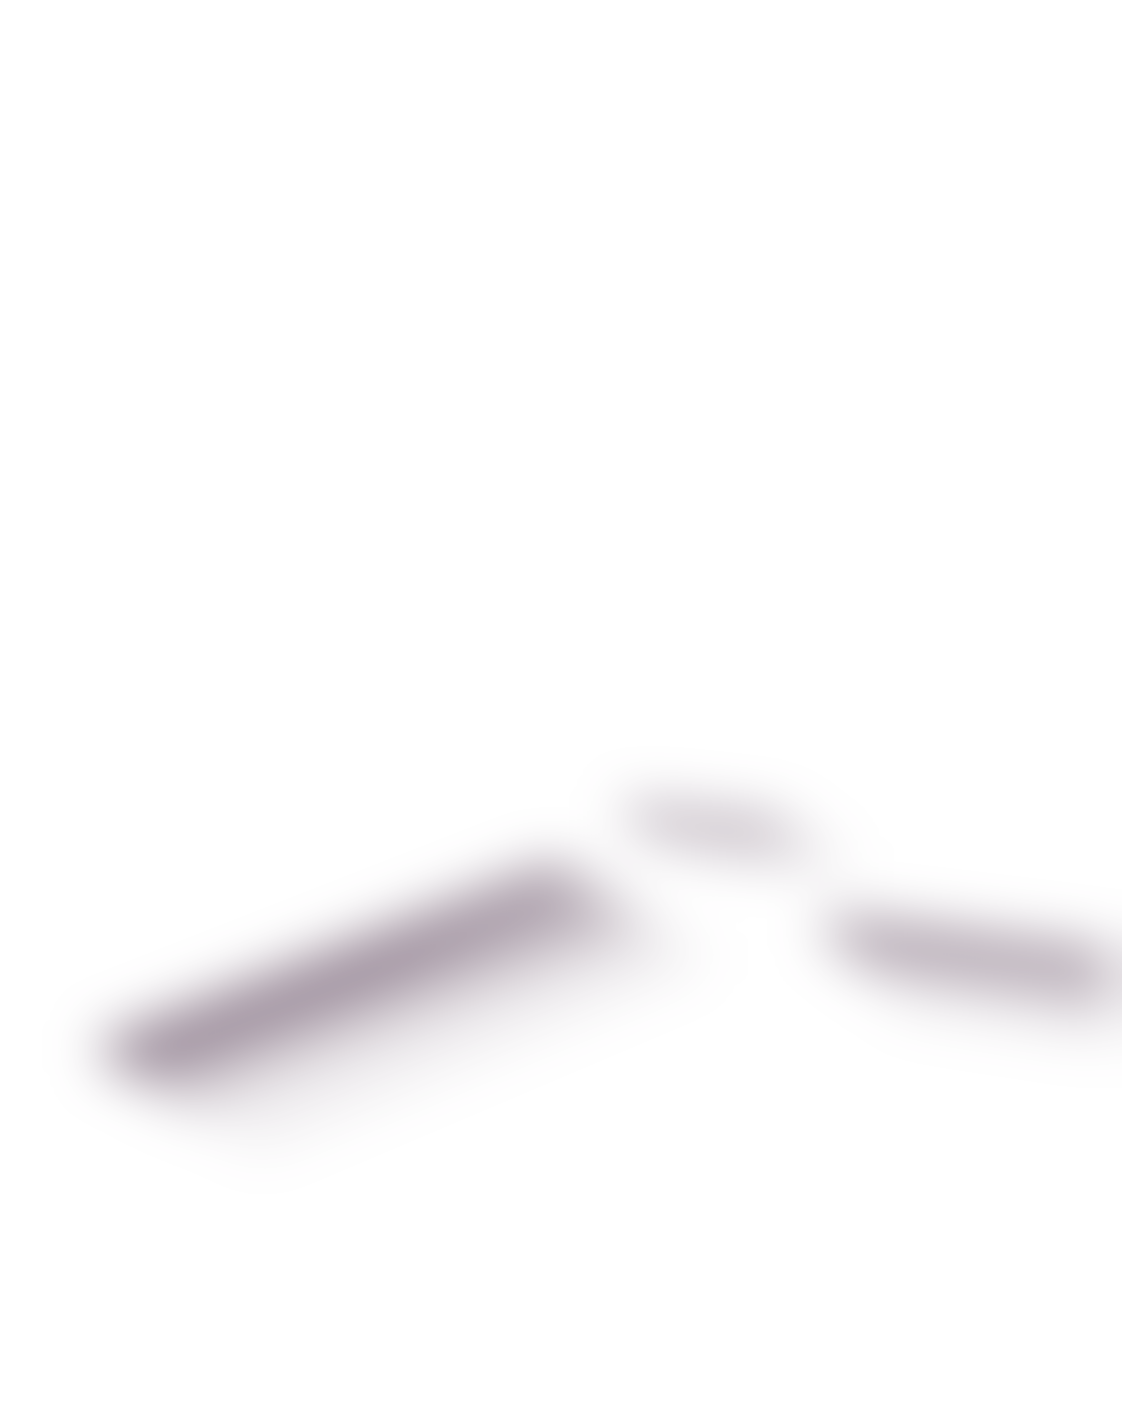
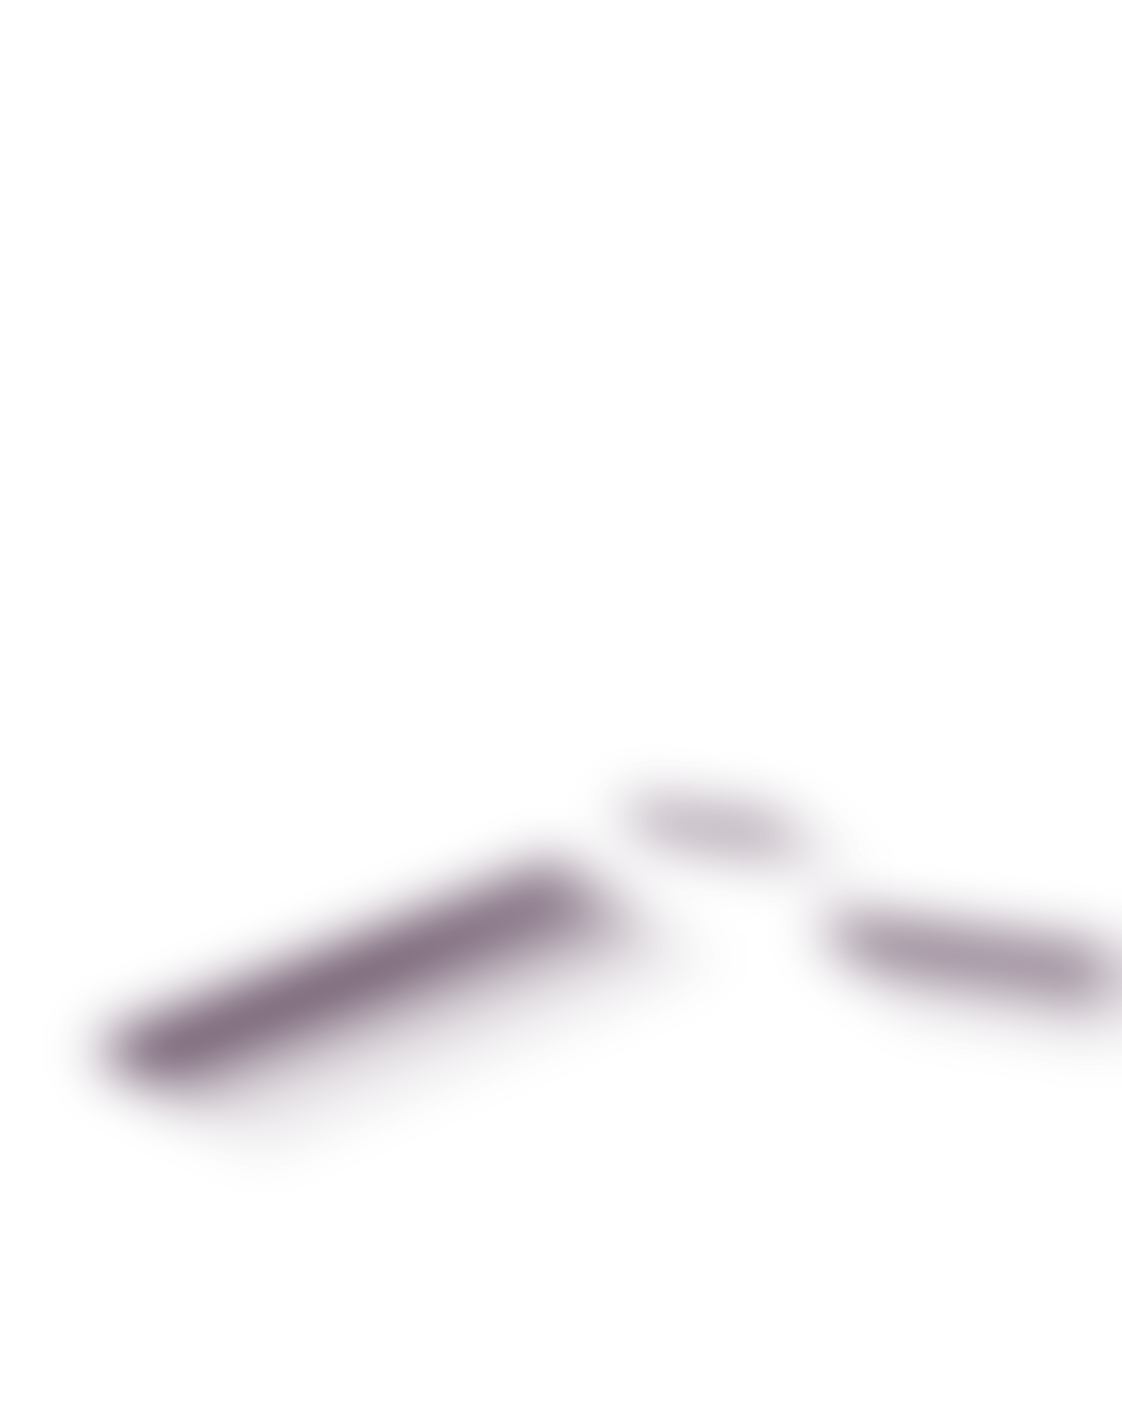
fix(scene): 首頁光照實機不可見＋檯燈光球——雙 pass 光束與投光式燈暈
實機回報（dev debug/prod 皆同）：四時段光照效果幾乎全部看不見、
黃昏檯燈是一顆違和的白色光球。本機 Skia 渲染 harness 重現＝與實機
一致，排除 Impeller/裝置差異，根因是前兩輪「過曝收斂」把強度壓到
肉眼閾值以下＋奶油色光束 srcOver 疊奶油房間色距趨近 0。

- 光束/月光改雙 pass：srcOver 飽和金「暖色染」（上限=光束色，
  永不過曝）＋低 alpha plus「提亮」（正午有效值 ≤7%）；
  正午近全白像素 0.2%（災難版 45%）
- homeSunShaftStrength 重寫：晨 6~9 最強 0.85、正午轉柔 0.55、
  14 起收光；光束漸層加中段 stop、長度收到 0.85w 落在床上
- 檯燈（首頁）改「投光」模式：燈罩差分已表達燈亮，painter 只畫
  燈罩周圍暖色染（srcOver、中心對準燈罩中心而非燈頸）＋櫃面
  小光池；其他房間無差分圖，維持原 additive 光暈
- 黃昏斜光 0.42→0.62、月光雙 pass 加強；長影差分 alpha ×1.5
- 渲染驗證：flutter test 全套 263 通過、analyze/check_units 乾淨

待實機核准四時段觀感。

Changed region(s): [[0.0936, 0.6134, 0.5303, 0.7974], [0.7487, 0.6441, 0.967, 0.7054]]

diff --git a/lib/pages/home/room_ambient_overlay.dart b/lib/pages/home/room_ambient_overlay.dart
@@ -92,6 +92,22 @@ double homeLampIntensity(double h) =>
 double homeDuskIntensity(double h) =>
     _smooth(16.0, 16.8, h) * (1 - _smooth(18.3, 19.2, h));
 
+/// 首頁日光光束的可視強度。早晨（6~9）低角度金光最強、正午轉柔但仍
+/// 清楚可見、14 起收光。實機驗證教訓（2026-07-12）：先前用 smooth(6,12)
+/// 一路壓，07:30 只剩 2% alpha、13:00 也不到 10%，整個白天等於沒有光照；
+/// srcOver 光束的亮度上限就是光束色本身，不會過曝，強度可以放心給足。
+double homeSunShaftStrength(double h) {
+  if (h < 6 || h >= 16) return 0;
+  final rise = _smooth(6.0, 7.0, h); // 日出後快速就位
+  final soften = 1 - 0.35 * _smooth(8.5, 12.0, h); // 正午轉柔（能量補償）
+  final set = 1 - _smooth(14.0, 16.0, h); // 午後收光
+  return 0.85 * rise * soften * set;
+}
+
+/// 首頁夜間月光強度。刻意比其他房間明確，因首頁亮色牆面會吃掉過淡冷光。
+double homeMoonShaftStrength(double h) =>
+    (h >= 12 ? _smooth(21.0, 22.8, h) : (1 - _smooth(4.0, 5.5, h))) * 0.65;
+
 /// 首頁靜態差分 overlay（燈罩發亮 / 黃昏長影）。
 ///
 /// 與背景圖同一套 cover-by-width + topCenter 版位鋪滿，直接疊在底圖上；
@@ -631,24 +647,12 @@ class _RoomAmbientPainter extends CustomPainter {
     late final double lamp;
     late final double moon;
     if (companionTiming) {
-      final sun = _companionSun(h);
+      final sunShaft = homeSunShaftStrength(h);
       final noon = _smooth(6.0, 12.0, h);
       // 黃昏斜光：與長影差分/光池共用同一條首頁黃昏曲線
       final dusk = homeDuskIntensity(h);
-      if (sun > 0.01) {
-        // (1 - 0.70*noon)＝能量補償：正午光束加寬 9 倍（spreadScale 8）
-        // 又三道 additive 疊加，不補償會把窗簾/牆面 45% 沖到全白
-        //（實測過曝率 45.3%→補償後應 <5%）。與其他頁 shaftStrength 的
-        // (1 - 0.875*dayness) 同一個道理。
-        _paintSunShafts(
-          canvas,
-          w,
-          imgH,
-          t,
-          0.68 * sun * (1 - 0.70 * noon),
-          noon,
-          spreadScale: 8.0,
-        );
+      if (sunShaft > 0.01) {
+        _paintSunShafts(canvas, w, imgH, t, sunShaft, noon, spreadScale: 1.6);
       }
       if (dusk > 0.01) {
         _paintSunShafts(
@@ -656,17 +660,15 @@ class _RoomAmbientPainter extends CustomPainter {
           w,
           imgH,
           t,
-          0.26 * dusk,
+          0.62 * dusk,
           0.22,
           colorOverride: const Color(0xFFFFB36F),
-          spreadScale: 3.2,
+          spreadScale: 1.6,
         );
       }
       // 檯燈與黃昏同步暖起來（16:48 起漸亮）；與燈罩差分共用曲線
       lamp = homeLampIntensity(h);
-      moon =
-          (h >= 12 ? _smooth(21.0, 22.8, h) : (1 - _smooth(4.0, 5.5, h))) *
-          0.45;
+      moon = homeMoonShaftStrength(h);
     } else {
       // ── 時段強度曲線（連續、平滑）──
       // 窗光：5:30 亮起、晨間最強、白天轉柔、16~19 收掉
@@ -689,12 +691,6 @@ class _RoomAmbientPainter extends CustomPainter {
     }
   }
 
-  double _companionSun(double h) {
-    if (h < 6 || h >= 16) return 0;
-    if (h <= 12) return _smooth(6.0, 12.0, h);
-    return 1 - _smooth(12.0, 16.0, h);
-  }
-
   // ── 窗光光束 + 地板光池 + 塵埃 ──────────────────────────────
   void _paintSunShafts(
     Canvas canvas,
@@ -706,7 +702,15 @@ class _RoomAmbientPainter extends CustomPainter {
     Color? colorOverride,
     double spreadScale = 11.0,
   }) {
-    final color =
+    // 染色 pass 用較飽和的金（srcOver 靠色差表現）；提亮 pass 用淺暖色。
+    final tintColor =
+        colorOverride ??
+        Color.lerp(
+          const Color(0xFFFFB966), // 晨金（飽和）
+          const Color(0xFFFFE7B8), // 晝奶油（飽和）
+          dayness,
+        )!;
+    final liftColor =
         colorOverride ??
         Color.lerp(
           const Color(0xFFFFC388), // 晨金
@@ -715,20 +719,29 @@ class _RoomAmbientPainter extends CustomPainter {
         )!;
     final dir = Offset(1, 0.9) / Offset(1, 0.9).distance;
     final perp = Offset(-dir.dy, dir.dx);
-    final len = w * 0.95;
-    // 白天太陽高 → 光束大幅加寬成一片柔光（晨光 dayness≈0 仍窄而戲劇）。
-    // 調這個係數改白天「範圍」：越大越寬。
+    // 光束落在床鋪就收掉（0.85w）：拉太長會掃過整個房間變成霧。
+    final len = w * 0.85;
+    // 白天太陽高 → 光束稍微加寬，但仍保留三道可辨識的輪廓。
     final spread = 1.0 + spreadScale * dayness;
 
-    // 三道光束沿窗格錯開，亮度微微呼吸（極慢，幾乎察覺不到才高級）
+    // 三道光束沿窗格錯開，亮度微微呼吸（極慢，幾乎察覺不到才高級）。
+    // blend 模式演進（實機兩輪回報的結論，改前先讀）：
+    //   純 plus → 正午在白牆/窗簾大面積 clip 到全白（45% 過曝）；
+    //   純 srcOver → 奶油光疊奶油房間色距趨近 0，整條光束隱形；
+    //   純 screen → 暖色調房間上去飽和變蒼白霧，沒有「金色光」感。
+    // 定案＝雙 pass：srcOver 飽和金負責「暖色染」（上限就是光束色，
+    // 永不過曝），低 alpha plus 負責「提亮」（正午有效值 ≤7% 不會洗白）。
     final beams = <({Offset start, double halfW, double alpha})>[
-      (start: Offset(w * 0.07, imgH * 0.09), halfW: w * 0.030, alpha: 0.18),
-      (start: Offset(w * 0.12, imgH * 0.16), halfW: w * 0.042, alpha: 0.22),
-      (start: Offset(w * 0.17, imgH * 0.24), halfW: w * 0.034, alpha: 0.16),
+      (start: Offset(w * 0.07, imgH * 0.09), halfW: w * 0.027, alpha: 0.30),
+      (start: Offset(w * 0.12, imgH * 0.16), halfW: w * 0.036, alpha: 0.34),
+      (start: Offset(w * 0.17, imgH * 0.24), halfW: w * 0.030, alpha: 0.27),
     ];
     final breath = 0.9 + 0.1 * math.sin(t * 0.35);
-    final blur = Paint()
-      ..maskFilter = const ui.MaskFilter.blur(ui.BlurStyle.normal, 9)
+    final tintPaint = Paint()
+      ..maskFilter = const ui.MaskFilter.blur(ui.BlurStyle.normal, 7)
+      ..blendMode = BlendMode.srcOver;
+    final liftPaint = Paint()
+      ..maskFilter = const ui.MaskFilter.blur(ui.BlurStyle.normal, 7)
       ..blendMode = BlendMode.plus;
 
     for (final b in beams) {
@@ -741,11 +754,22 @@ class _RoomAmbientPainter extends CustomPainter {
         ..lineTo(end.dx - perp.dx * hw * 1.6, end.dy - perp.dy * hw * 1.6)
         ..lineTo(end.dx + perp.dx * hw * 1.6, end.dy + perp.dy * hw * 1.6)
         ..close();
-      blur.shader = ui.Gradient.linear(b.start, end, [
-        color.withValues(alpha: b.alpha * strength * breath),
-        color.withValues(alpha: 0),
-      ]);
-      canvas.drawPath(path, blur);
+      // 中段留 55% 濃度：只給頭尾兩個 stop 時，光束離窗一小段就衰減到
+      // 肉眼閾值以下，等於整條看不見（實機回報的主因之一）。
+      final a0 = b.alpha * strength * breath;
+      const stops = [0.0, 0.5, 1.0];
+      tintPaint.shader = ui.Gradient.linear(b.start, end, [
+        tintColor.withValues(alpha: a0),
+        tintColor.withValues(alpha: a0 * 0.55),
+        tintColor.withValues(alpha: 0),
+      ], stops);
+      liftPaint.shader = ui.Gradient.linear(b.start, end, [
+        liftColor.withValues(alpha: a0 * 0.42),
+        liftColor.withValues(alpha: a0 * 0.42 * 0.55),
+        liftColor.withValues(alpha: 0),
+      ], stops);
+      canvas.drawPath(path, tintPaint);
+      canvas.drawPath(path, liftPaint);
     }
 
     // 塵埃微粒：沿中央光束緩慢漂移 + 各自閃爍
@@ -763,7 +787,7 @@ class _RoomAmbientPainter extends CustomPainter {
       final twinkle = 0.5 + 0.5 * math.sin(t * (0.6 + m.p1 * 0.2) + m.p2);
       // 沿光束尾端淡出，跟光束的衰減一致
       final fade = (1 - s) * strength * twinkle;
-      motePaint.color = color.withValues(alpha: 0.38 * fade);
+      motePaint.color = liftColor.withValues(alpha: 0.45 * fade);
       canvas.drawCircle(pos, m.r, motePaint);
     }
   }
@@ -782,22 +806,46 @@ class _RoomAmbientPainter extends CustomPainter {
       ..lineTo(end.dx - perp.dx * halfW * 1.5, end.dy - perp.dy * halfW * 1.5)
       ..lineTo(end.dx + perp.dx * halfW * 1.5, end.dy + perp.dy * halfW * 1.5)
       ..close();
+    // 雙 pass 同光束：srcOver 冷色染（暖房間上靠色差可見）＋小 plus 提亮。
+    canvas.drawPath(
+      path,
+      Paint()
+        ..maskFilter = const ui.MaskFilter.blur(ui.BlurStyle.normal, 11)
+        ..shader = ui.Gradient.linear(
+          start,
+          end,
+          [
+            const Color(0xFFAAB6E8).withValues(alpha: 0.32 * moon),
+            const Color(0xFFAAB6E8).withValues(alpha: 0.18 * moon),
+            const Color(0x00AAB6E8),
+          ],
+          [0.0, 0.5, 1.0],
+        ),
+    );
     canvas.drawPath(
       path,
       Paint()
         ..maskFilter = const ui.MaskFilter.blur(ui.BlurStyle.normal, 11)
         ..blendMode = BlendMode.plus
-        ..shader = ui.Gradient.linear(start, end, [
-          color.withValues(alpha: 0.07 * moon),
-          color.withValues(alpha: 0),
-        ]),
+        ..shader = ui.Gradient.linear(
+          start,
+          end,
+          [
+            color.withValues(alpha: 0.10 * moon),
+            color.withValues(alpha: 0.06 * moon),
+            color.withValues(alpha: 0),
+          ],
+          [0.0, 0.5, 1.0],
+        ),
     );
   }
 
   // ── 床頭檯燈暖光暈（呼吸）────────────────────────────────────
-  // 外暈刻意收斂：半徑 0.30w 時光球會吞掉櫃面以下的家具正面＋地板
-  //（「檯燈光照下方太多」），且 additive 疊加在實機 P3/OLED 比模擬器
-  // 截圖更亮。改小半徑＋中心略上移（光偏向燈罩），讓光暈貼著燈本體。
+  // 首頁（companionTiming）有「燈罩發亮」差分圖，燈本體已經亮了；painter
+  // 只負責「投出去的光」：燈罩周圍的暖色染（srcOver，不會疊白過曝）＋
+  // 櫃面上的小光池。實機回報教訓：additive 光暈中心又落在燈頸（0.41 是
+  // 燈罩「底緣」），疊在全亮燈罩差分上就是一顆吞掉底座的白色光球。
+  // 其他房間沒有差分圖，維持原本 additive 雙圓光暈（燈亮本體靠它表達）。
   void _paintLampGlow(
     Canvas canvas,
     double w,
@@ -806,6 +854,42 @@ class _RoomAmbientPainter extends CustomPainter {
     double lamp,
     Offset center,
   ) {
+    if (companionTiming) {
+      // 燈罩中心在 lampCenter（燈罩底緣）上方 0.045 圖高處（量自差分圖）。
+      final shade = Offset(w * center.dx, imgH * (center.dy - 0.045));
+      final breath = 0.93 + 0.07 * math.sin(t * 0.8);
+      const warm = Color(0xFFFFC98A);
+      final halo = Paint()
+        ..shader = ui.Gradient.radial(
+          shade,
+          w * 0.155,
+          [
+            warm.withValues(alpha: 0.20 * lamp * breath),
+            warm.withValues(alpha: 0.10 * lamp * breath),
+            warm.withValues(alpha: 0),
+          ],
+          [0.0, 0.55, 1.0],
+        );
+      canvas.drawCircle(shade, w * 0.155, halo);
+      // 櫃面光池：燈座下方一小圈橫橢圓，貼著床頭櫃面，不往地板擴。
+      // 小範圍 plus 才有「燈光落在木頭上」的暖感；範圍小不會養成光球。
+      final pool = Offset(w * center.dx, imgH * (center.dy + 0.065));
+      canvas.save();
+      canvas.translate(pool.dx, pool.dy);
+      canvas.scale(1, 0.42);
+      canvas.drawCircle(
+        Offset.zero,
+        w * 0.105,
+        Paint()
+          ..blendMode = BlendMode.plus
+          ..shader = ui.Gradient.radial(Offset.zero, w * 0.105, [
+            const Color(0xFFFFDFAE).withValues(alpha: 0.12 * lamp),
+            const Color(0xFFFFDFAE).withValues(alpha: 0),
+          ]),
+      );
+      canvas.restore();
+      return;
+    }
     final c = Offset(w * center.dx, imgH * (center.dy - 0.015));
     final breath = 0.86 + 0.14 * math.sin(t * 0.8);
     const warm = Color(0xFFFFC98A);

diff --git a/test/room_ambient_overlay_test.dart b/test/room_ambient_overlay_test.dart
@@ -1,0 +1,22 @@
+import 'package:flutter_test/flutter_test.dart';
+import 'package:habit_app/pages/home/room_ambient_overlay.dart';
+
+void main() {
+  group('首頁四時段窗光可視強度', () {
+    test('早晨與白天固定場景不會退化成肉眼不可見的微光', () {
+      expect(homeSunShaftStrength(7.5), greaterThanOrEqualTo(0.25));
+      expect(homeSunShaftStrength(13.0), greaterThanOrEqualTo(0.35));
+    });
+
+    test('黃昏保留明確斜光，夜晚保留冷色月光', () {
+      expect(homeDuskIntensity(17.8), greaterThanOrEqualTo(0.95));
+      expect(homeMoonShaftStrength(23.0), greaterThanOrEqualTo(0.60));
+    });
+
+    test('沒有日光的時間不誤畫太陽光束', () {
+      expect(homeSunShaftStrength(5.5), 0);
+      expect(homeSunShaftStrength(17.8), 0);
+      expect(homeSunShaftStrength(23.0), 0);
+    });
+  });
+}
